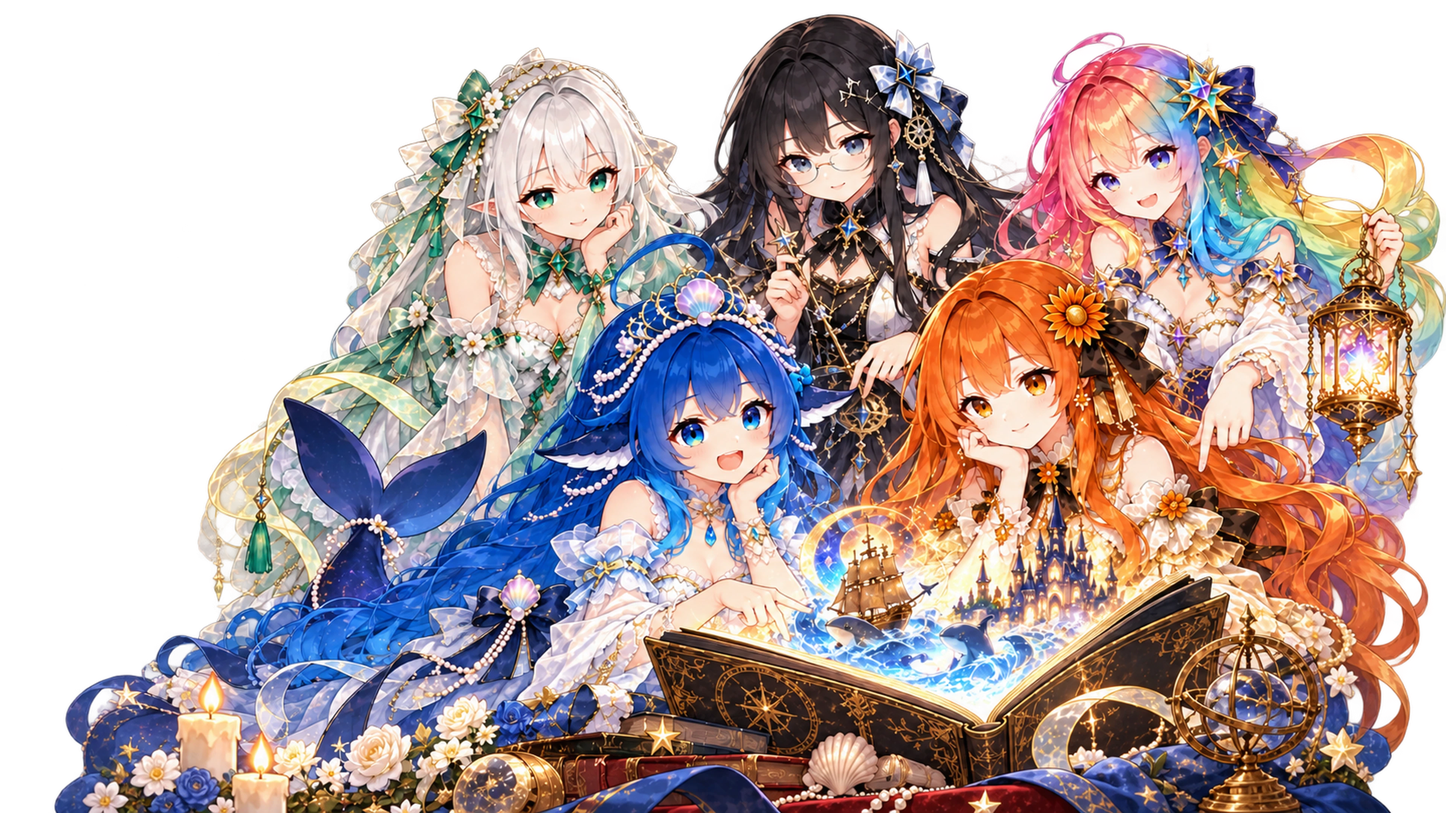
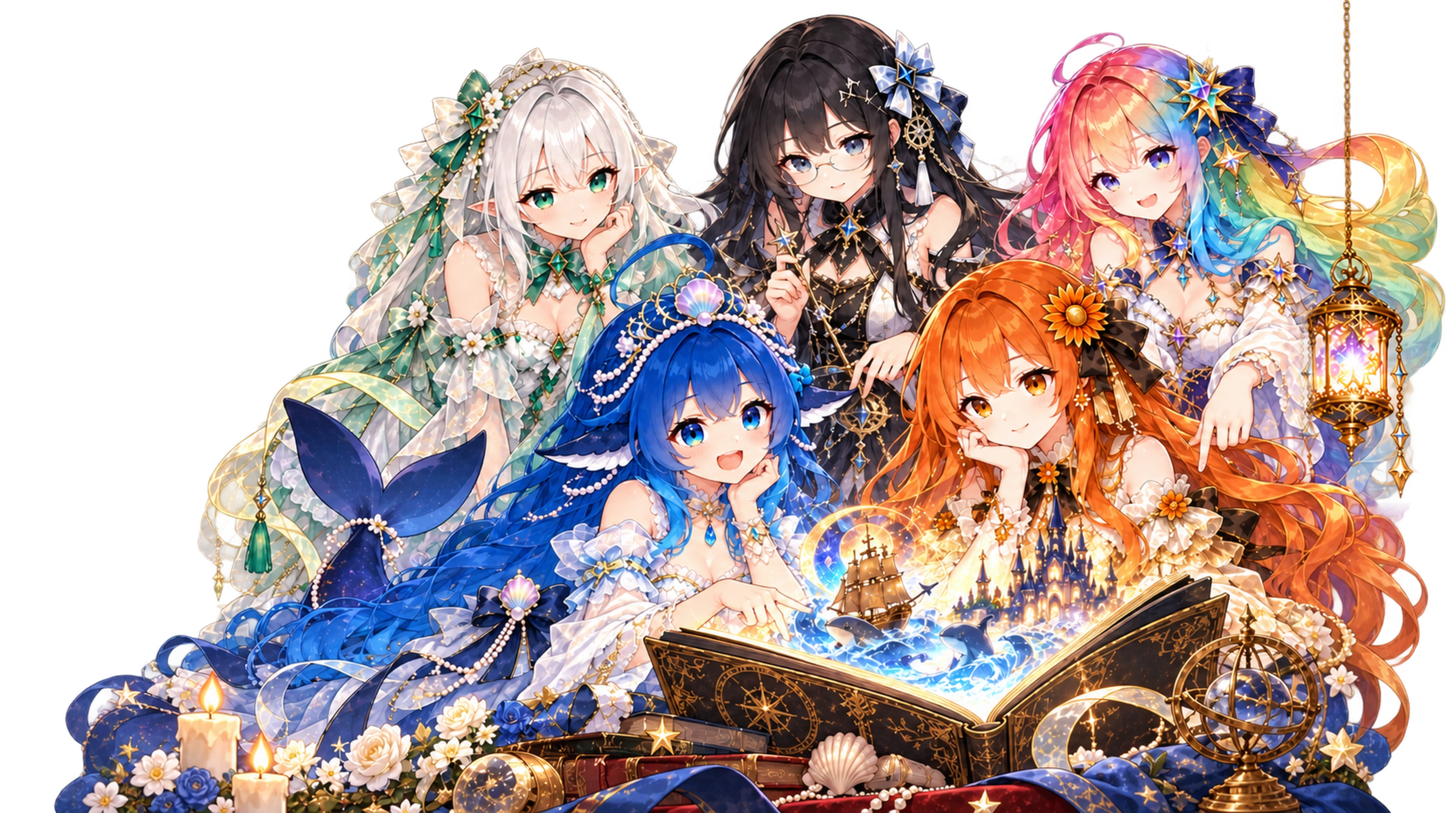
fix: correct hands in gacha illustrations

diff --git a/web/public/assets/gacha/NOTICE.md b/web/public/assets/gacha/NOTICE.md
@@ -10,6 +10,10 @@ Seven ordinary foregrounds retain generative corrections of their established po
 
 The permanent-pool cover retains a localized generative correction of ChatGPT's outstretched hand to five fingers. Only the hand region of the generated 1672 × 941 foreground edit is adopted; the remaining character artwork, background and composition registration are preserved. Both transparent foregrounds and composited covers share the correction at standard size and 3840 × 2160 resampled size.
 
+The Fairytale Theatre cover replaces an unattached lantern-holding hand with a suspended gold chain. The localized foreground edit preserves the cast, their existing poses and the registered background. Its standard foreground and cover remain 1672 × 941; the matching 3840 × 2160 derivatives are resampled from the same corrected source.
+
+The Fairytale Theatre group illustration and Celestial Myth ChatGPT card and group illustration retain localized corrections of unnatural finger bends. Their registered foregrounds, static compositions, thumbnail, open/closed motion sources and heartfelt-moment portrait share the corrected hands. Faces, eye registration, backgrounds and unrelated poses are preserved. Standard derivatives retain their existing dimensions; larger derivatives are resampled from the same corrected inputs.
+
 ChatGPT, Claude, GLM, DeepSeek and Gemini names identify the fictional character inspirations. Related names and marks belong to their respective holders. The activity is not affiliated with or endorsed by those holders.
 
 The soundtrack `audio/lobby.mp3` is the project's lobby arrangement of **Elevate** by **Fupi**, based on the [Elevate instrument tracks](https://opengameart.org/content/elevate-instrument-tracks), released under [CC0](https://creativecommons.org/publicdomain/zero/1.0/). The source composition and instrument tracks retain that dedication.
